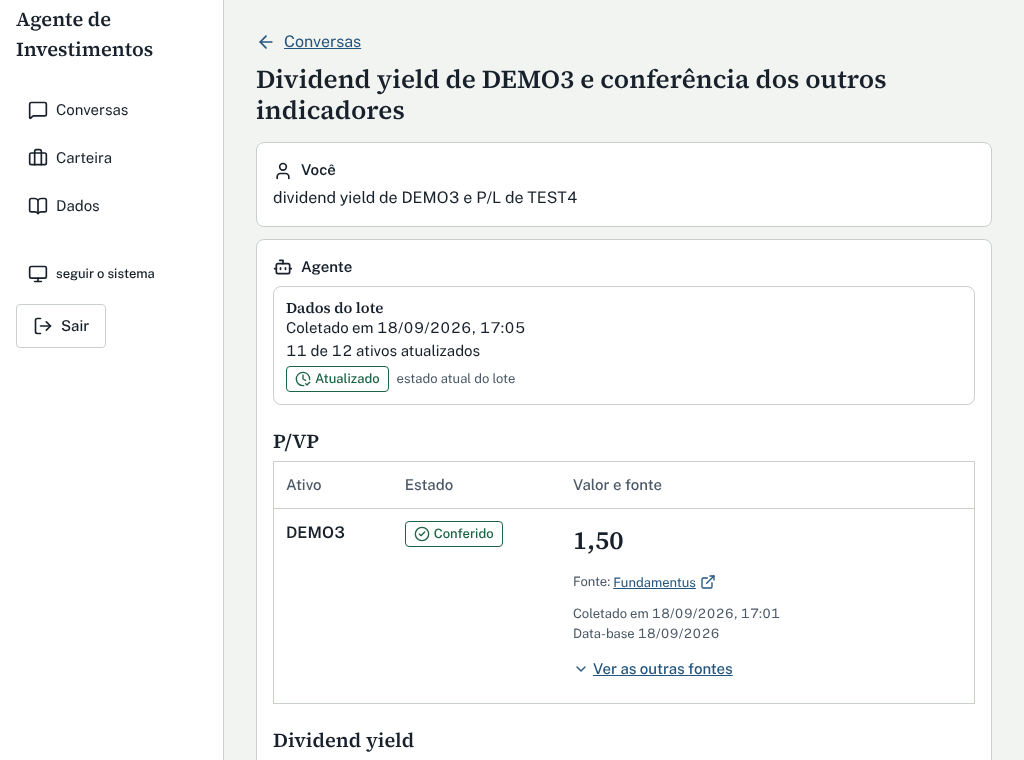
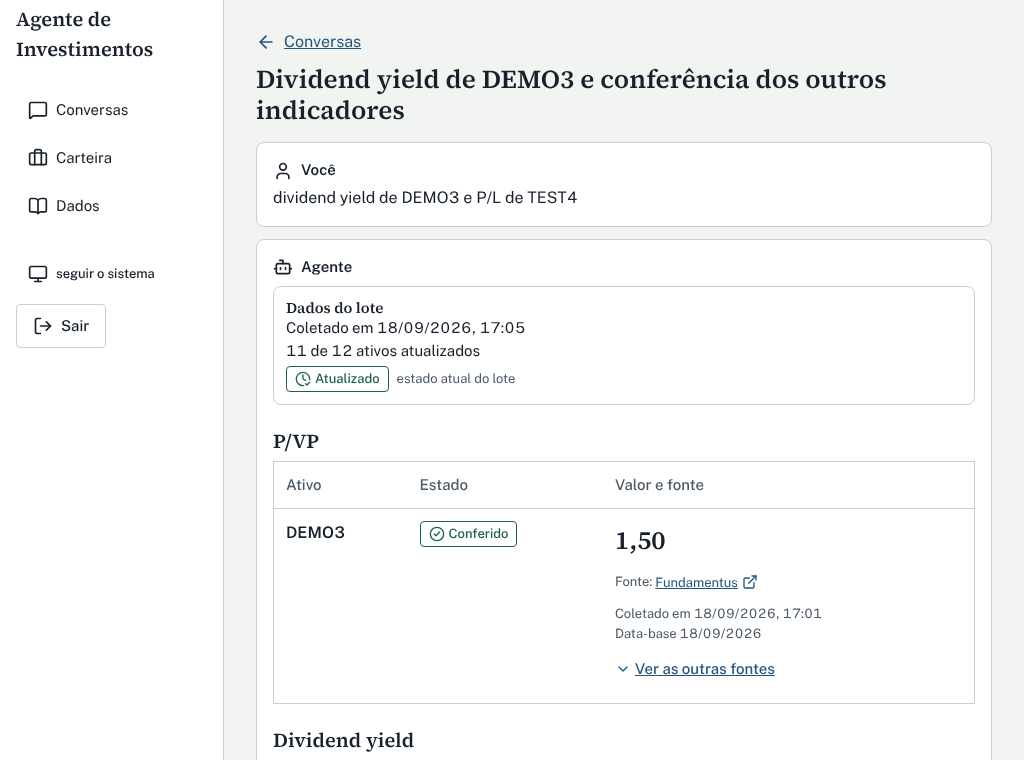
T21c: legibilidade de valores curtos (nowrap), break-word na raiz, teste de navegação direta e medição 320-1100 px
Claude-Session: https://claude.ai/code/session_014ih8dcR4zqo4T5PyAmD7dM

diff --git a/frontend/src/features/chat/components/MetricTable.tsx b/frontend/src/features/chat/components/MetricTable.tsx
@@ -11,7 +11,7 @@ import {
   type EvidenceValidation,
 } from '../contracts'
 import { formatDateTime, formatReference } from '../dates'
-import { safeSourceUrl, sourceName } from '../safeLink'
+import { isKnownSource, safeSourceUrl, sourceName } from '../safeLink'
 import { warningText } from '../texts'
 import { deltaUnit, unitFor } from '../units'
 import { Value } from './Value'
@@ -80,8 +80,19 @@ function IncompleteCell() {
   )
 }
 
+// Ticker no formato do contrato não quebra ("DEMO3" nunca vira "DEMO / 3"); texto fora do
+// formato (dado estranho) pode quebrar em qualquer ponto.
+function Ticker({ id }: { id: string }) {
+  return <span className={/^[A-Z0-9]{1,12}$/.test(id) ? 'whitespace-nowrap' : '[overflow-wrap:anywhere]'}>{id}</span>
+}
+
+// Nome de fonte conhecido não quebra; um código estranho (texto do servidor) pode quebrar em qualquer ponto.
+function SourceName({ id }: { id: string }) {
+  return <span className={isKnownSource(id) ? 'whitespace-nowrap' : '[overflow-wrap:anywhere]'}>{sourceName(id)}</span>
+}
+
 function SourceLink({ observation }: { observation: EvidenceObservation }) {
-  const name = sourceName(observation.source_id)
+  const name = <SourceName id={observation.source_id} />
   const href = safeSourceUrl(observation.source_url)
   if (!href) {
     return (
@@ -110,8 +121,14 @@ function ObservationMeta({ observation }: { observation: EvidenceObservation }) 
       <div>
         Fonte: <SourceLink observation={observation} />
       </div>
-      <div>Coletado em {formatDateTime(observation.collected_at)}</div>
-      {observation.reference_at ? <div>Data-base {formatReference(observation.reference_at)}</div> : null}
+      <div>
+        Coletado em <span className="whitespace-nowrap">{formatDateTime(observation.collected_at)}</span>
+      </div>
+      {observation.reference_at ? (
+        <div>
+          Data-base <span className="whitespace-nowrap">{formatReference(observation.reference_at)}</span>
+        </div>
+      ) : null}
     </div>
   )
 }
@@ -120,7 +137,7 @@ function ObservationMeta({ observation }: { observation: EvidenceObservation }) 
 function ObservationBox({ observation, metric }: { observation: EvidenceObservation; metric: string }) {
   return (
     <li className="min-w-0 rounded-selo border border-borda p-3">
-      <p className="text-nota font-medium">{sourceName(observation.source_id)}</p>
+      <p className="text-nota font-medium"><SourceName id={observation.source_id} /></p>
       <p className="font-serif text-subtitulo font-semibold">
         <Value value={observation.value_decimal} unit={unitFor(observation.unit, metric)} />
       </p>
@@ -134,7 +151,7 @@ function ComparisonFigures({ validation, observations }: { validation: EvidenceV
   if (!c) return null
   const unit = deltaUnit(unitFor(observations[0]?.unit ?? '', validation.metric))
   return (
-    <dl className="mt-2 grid grid-cols-[auto_minmax(0,1fr)] gap-x-3 text-rotulo">
+    <dl className="mt-2 grid grid-cols-1 gap-x-3 min-[480px]:grid-cols-[auto_minmax(0,1fr)] text-rotulo">
       <dt className="text-tinta-suave">Diferença entre as fontes</dt>
       <dd className="min-w-0">
         <Value value={c.delta_abs} unit={unit} />
@@ -149,7 +166,7 @@ function ComparisonFigures({ validation, observations }: { validation: EvidenceV
 
 function Reason({ text }: { text: string | null }) {
   return (
-    <p className="text-rotulo">
+    <p className="text-rotulo [overflow-wrap:anywhere]">
       <span className="text-tinta-suave">Motivo: </span>
       {text && text.length > 0 ? text : 'não informado'}
     </p>
@@ -214,7 +231,8 @@ function CellBody({ validation, observations }: { validation: EvidenceValidation
         </div>
       )
     case 'single_source': {
-      const o = observations.find((x) => x.observation_id === validation.selected_observation_id) ?? observations[0]
+      // O resolvedor garante exatamente uma observação (e que a selecionada, se houver, é ela).
+      const o = observations[0]
       return (
         <div>
           <p className="font-serif text-tela font-semibold">
@@ -295,19 +313,19 @@ function MetricSection({
 }) {
   const headingId = useId()
   const rows = validationIds.map((id) => ({ id, resolved: resolve(id, metric) }))
-  const label = (r: Resolved, id: string) => (r.ok ? r.validation.asset_id : `Campo ${id.slice(0, 8)}`)
+  const label = (r: Resolved, id: string) => (r.ok ? <Ticker id={r.validation.asset_id} /> : `Campo ${id.slice(0, 8)}`)
   return (
     <section aria-labelledby={headingId} className="mt-6">
       <h3 id={headingId} className="text-subtitulo">
         {heading}
       </h3>
       {wide ? (
-        <table className="mt-2 w-full table-fixed border-collapse rounded-painel border border-borda bg-superficie text-left">
+        <table className="mt-2 w-full border-collapse rounded-painel border border-borda bg-superficie text-left">
           <caption className="sr-only">{heading}: valor, estado e fonte por ativo</caption>
           <thead>
             <tr className="border-b border-borda text-rotulo text-tinta-suave">
-              <th scope="col" className="w-[17%] p-3 font-medium">Ativo</th>
-              <th scope="col" className="w-[24%] p-3 font-medium">Estado</th>
+              <th scope="col" className="p-3 font-medium">Ativo</th>
+              <th scope="col" className="p-3 font-medium">Estado</th>
               <th scope="col" className="p-3 font-medium">Valor e fonte</th>
             </tr>
           </thead>
@@ -357,12 +375,12 @@ export function MetricTable({ payload, catalog }: { payload: AnswerPayload; cata
   const headerId = useId()
 
   return (
-    <div className="mt-2 min-w-0 [overflow-wrap:anywhere]">
+    <div className="mt-2 min-w-0 [overflow-wrap:break-word]">
       <header aria-labelledby={headerId} className="min-w-0 rounded-painel border border-borda bg-superficie p-3">
         <h2 id={headerId} className="text-rotulo font-semibold">Dados do lote</h2>
         <p className="text-rotulo">
           Coletado em{' '}
-          {collected === 'data inválida' ? collected : <time dateTime={payload.snapshot_collected_at}>{collected}</time>}
+          {collected === 'data inválida' ? collected : <time dateTime={payload.snapshot_collected_at} className="whitespace-nowrap">{collected}</time>}
         </p>
         <p className="text-rotulo">
           {assets_updated} de {assets_total} ativos atualizados
@@ -405,7 +423,13 @@ export function MetricTable({ payload, catalog }: { payload: AnswerPayload; cata
                     <li key={id} className="min-w-0 rounded-painel border border-borda bg-superficie p-3" data-testid={resolved.ok ? `cell-${resolved.validation.asset_id}-${resolved.validation.metric}` : `cell-${id}`}>
                       <div className="mb-2 flex flex-wrap items-center justify-between gap-2">
                         <h4 className="font-semibold">
-                          {resolved.ok ? `${resolved.validation.asset_id}, ${metricLabel(resolved.validation.metric)}` : 'Campo sem evidência'}
+                          {resolved.ok ? (
+                            <>
+                              <Ticker id={resolved.validation.asset_id} />, {metricLabel(resolved.validation.metric)}
+                            </>
+                          ) : (
+                            'Campo sem evidência'
+                          )}
                         </h4>
                         {resolved.ok ? <Badges validation={resolved.validation} /> : null}
                       </div>

diff --git a/frontend/src/features/chat/components/MetricTable.test.tsx b/frontend/src/features/chat/components/MetricTable.test.tsx
@@ -128,7 +128,7 @@ test('incomparable: os valores e o motivo do servidor', () => {
   expect(within(c).getByText('12,0')).toBeTruthy()
   expect(within(c).getByText('9,8')).toBeTruthy()
   expect(within(c).getByText('Datas-base diferentes entre as fontes')).toBeTruthy()
-  expect(within(c).getByText(/Data-base 30\/06\/2026/)).toBeTruthy()
+  expect(c.textContent).toContain('Data-base 30/06/2026')
 })
 
 test('missing mostra "Não disponível", nunca zero', () => {
@@ -257,7 +257,7 @@ test('a 768 px ou mais é uma tabela com cabeçalhos de coluna e de linha', () =
   expect(within(tables[1]).getByRole('rowheader', { name: 'DEMO3' })).toBeTruthy()
 })
 
-test('reflow: valor longo quebra em qualquer ponto e as caixas podem encolher (WCAG 1.4.10)', () => {
+test('reflow: valor longo quebra em qualquer ponto; as caixas podem encolher (WCAG 1.4.10)', () => {
   const long = '9'.repeat(45)
   const raw = seedPayload()
   const ev = raw.evidence as { observations: { observation_id: string; value_decimal: string }[]; validations: { comparison: { delta_abs: string; limit: string } | null }[] }
@@ -266,16 +266,48 @@ test('reflow: valor longo quebra em qualquer ponto e as caixas podem encolher (W
   ev.validations[1].comparison!.delta_abs = long
   render(<MetricTable payload={payloadOf(raw)} />)
   const root = screen.getByRole('banner').parentElement!
-  expect(root.className).toContain('[overflow-wrap:anywhere]')
-  expect(root.className).toContain('min-w-0')
   const longValues = [...root.querySelectorAll('span')].filter((s) => /9\.999\.999\.999/.test(s.textContent ?? '') && s.children.length === 0)
   expect(longValues.length).toBeGreaterThanOrEqual(3)
-  for (const el of longValues) expect(el.className, el.textContent ?? '').toContain('[overflow-wrap:anywhere]')
+  for (const el of longValues) {
+    expect(el.className, el.textContent ?? '').toContain('[overflow-wrap:anywhere]')
+    expect(el.className).not.toContain('whitespace-nowrap')
+  }
   // Itens de lista/grade com valor precisam poder encolher.
   const items = within(cell('DEMO3', 'dividend_yield')).getAllByRole('listitem')
   expect(items.length).toBe(2)
   for (const li of items) expect(li.className).toContain('min-w-0')
   for (const ul of cell('DEMO3', 'dividend_yield').querySelectorAll('ul')) expect(ul.className).toMatch(/minmax\(0,1fr\)/)
+})
+
+test('legibilidade: valores curtos, tickers, selos e fontes não quebram; anywhere só em texto que pode ser longo', () => {
+  render(<MetricTable payload={payloadOf(sevenStates())} />)
+  const root = screen.getByRole('banner').parentElement!
+  // A raiz não herda "anywhere" (isso encolheria a largura mínima de toda palavra).
+  expect(root.className).toContain('[overflow-wrap:break-word]')
+  expect(root.className).not.toContain('anywhere')
+  fireEvent.click(within(cell('DEMO3', 'price_to_book')).getByRole('button', { name: 'Ver as outras fontes' }))
+  const nowrap = (el: Element | null, what: string) => expect(el?.className, what).toContain('whitespace-nowrap')
+  for (const text of ['8,50%', '9,10%', '0,60 p.p.', '0,20 p.p.', '1,50', '0,0302', '12,0', '9,8']) {
+    const found = screen.getAllByText(text).filter((e) => e.tagName === 'SPAN')
+    expect(found.length, text).toBeGreaterThan(0)
+    for (const el of found) nowrap(el, text)
+  }
+  for (const el of screen.getAllByText('DEMO3')) nowrap(el, 'ticker')
+  for (const el of screen.getAllByText('18/09/2026')) nowrap(el, 'data-base')
+  for (const el of screen.getAllByText(/^18\/09\/2026, 17:0[12]$/)) nowrap(el, 'data da coleta')
+  for (const el of screen.getAllByText('Fundamentus')) nowrap(el.closest('span.whitespace-nowrap') ?? el, 'fonte')
+  for (const el of screen.getAllByText('StatusInvest')) nowrap(el, 'fonte')
+  for (const badge of screen.getAllByRole('img')) nowrap(badge, badge.getAttribute('aria-label') ?? '')
+  // Só os motivos (texto livre do servidor) podem quebrar em qualquer ponto.
+  const anywhere = [...root.querySelectorAll('[class*="overflow-wrap:anywhere"]')]
+  expect(anywhere.length).toBeGreaterThan(0)
+  for (const el of anywhere) expect(el.textContent).toMatch(/^Motivo: /)
+  // O rótulo e o valor de diferença/limite empilham em tela estreita.
+  const dl = cell('DEMO3', 'price_to_book').querySelector('dl')!
+  expect(dl.className).toContain('grid-cols-1')
+  expect(dl.className).toContain('min-[480px]:grid-cols-')
+  // Sem larguras fixas pequenas nas colunas da tabela.
+  expect(root.innerHTML).not.toMatch(/table-fixed|w-\[17%\]|w-\[24%\]/)
 })
 
 test('single_source usa a observação selecionada; observação extra torna o campo incompleto', () => {

diff --git a/frontend/src/features/chat/components/ChatPage.test.tsx b/frontend/src/features/chat/components/ChatPage.test.tsx
@@ -1,8 +1,14 @@
-import { act, fireEvent, screen, waitFor, within } from '@testing-library/react'
+import { QueryClient, QueryClientProvider } from '@tanstack/react-query'
+import { act, fireEvent, render, renderHook, screen, waitFor, within } from '@testing-library/react'
+import { MemoryRouter, useNavigate } from 'react-router-dom'
 import { afterEach, beforeEach, expect, test, vi } from 'vitest'
 import { fake } from '@/test/fakeSupabase'
+import { ThemeProvider } from '@/components/layout/ThemeProvider'
+import { SessionProvider } from '@/features/auth/hooks/SessionProvider'
+import { AppRoutes } from '@/routes/AppRoutes'
 import { renderApp } from '@/test/renderApp'
 import { chatConfig } from '../api'
+import { useAgentSend } from '../hooks'
 import { catalogBody, seedPayload } from '../fixtures'
 
 vi.mock('@/lib/supabase', async () => ({ supabase: (await import('@/test/fakeSupabase')).fake.client }))
@@ -635,16 +641,34 @@ test('cancelar o seletor depois de needs_selection e reenviar o mesmo texto usa 
   expect(agentCalls[1].body?.request_id).not.toBe(agentCalls[0].body?.request_id)
 })
 
-test('o mesmo texto em outra conversa não reutiliza o request_id', async () => {
+function Jump({ to }: { to: string }) {
+  const navigate = useNavigate()
+  return <button onClick={() => navigate(to)}>ir direto</button>
+}
+
+// Navega de /conversas/A para /conversas/B SEM passar pela lista (a mesma rota, outro :id).
+test('o mesmo texto em outra conversa (navegação direta A para B) não reutiliza o request_id nem herda a tela', async () => {
   const other = fake.addConversation('Outra conversa').id as string
-  await open()
+  const queryClient = new QueryClient({ defaultOptions: { queries: { retry: false } } })
+  render(
+    <QueryClientProvider client={queryClient}>
+      <ThemeProvider>
+        <SessionProvider>
+          <MemoryRouter initialEntries={[`/conversas/${conversationId}`]}>
+            <AppRoutes />
+            <Jump to={`/conversas/${other}`} />
+          </MemoryRouter>
+        </SessionProvider>
+      </ThemeProvider>
+    </QueryClientProvider>,
+  )
+  await screen.findByLabelText('Sua pergunta')
   agentHandler = (_c, n) => (n === 1 ? json(500, { error: { code: 'INTERNAL_ERROR' } }) : completed())
   type('mesma pergunta')
   clickSend()
   await screen.findByText('Erro no servidor')
-  fireEvent.click(screen.getAllByRole('link', { name: 'Conversas' })[0])
-  fireEvent.click(await screen.findByRole('link', { name: 'Outra conversa' }))
-  await screen.findByLabelText('Sua pergunta')
+  fireEvent.click(screen.getByRole('button', { name: 'ir direto' }))
+  await waitFor(() => expect(screen.getByRole('heading', { level: 1 }).textContent).toBe('Outra conversa'))
   // A tela remontou: nada de rascunho nem erro da conversa anterior.
   expect((screen.getByLabelText('Sua pergunta') as HTMLTextAreaElement).value).toBe('')
   expect(screen.queryByText('Erro no servidor')).toBeNull()
@@ -653,4 +677,20 @@ test('o mesmo texto em outra conversa não reutiliza o request_id', async () => 
   await screen.findByText('Resposta recebida.')
   expect(agentCalls[1].body?.conversation_id).toBe(other)
   expect(agentCalls[1].body?.request_id).not.toBe(agentCalls[0].body?.request_id)
+})
+
+// A chave do request_id também inclui a conversa por si só (sem depender do remontar da tela).
+test('useAgentSend: o mesmo pedido em outra conversa recebe request_id novo, na mesma instância do hook', async () => {
+  const queryClient = new QueryClient({ defaultOptions: { queries: { retry: false } } })
+  const wrapper = ({ children }: { children: React.ReactNode }) => <QueryClientProvider client={queryClient}>{children}</QueryClientProvider>
+  const { result, rerender } = renderHook(({ cid }) => useAgentSend('u1', cid, () => {}), { wrapper, initialProps: { cid: 'conv-A' } })
+  agentHandler = () => json(500, { error: { code: 'INTERNAL_ERROR' } })
+  const request = { message: 'mesma pergunta', selection: null }
+  await act(async () => void (await result.current.send(request)))
+  await act(async () => void (await result.current.send(request))) // mesma conversa: reutiliza
+  expect(agentCalls[1].body?.request_id).toBe(agentCalls[0].body?.request_id)
+  rerender({ cid: 'conv-B' })
+  await act(async () => void (await result.current.send(request)))
+  expect(agentCalls[2].body?.conversation_id).toBe('conv-B')
+  expect(agentCalls[2].body?.request_id).not.toBe(agentCalls[0].body?.request_id)
 })

diff --git a/frontend/src/features/chat/components/Value.tsx b/frontend/src/features/chat/components/Value.tsx
@@ -2,17 +2,23 @@ import { XCircle } from 'lucide-react'
 import { cn } from '@/lib/utils'
 import { INVALID_VALUE_TEXT, formatDecimalString, isDecimalString, type ValueUnit } from '../format'
 
+// Até este tamanho (em caracteres, já formatado) o valor é "curto": cabe em 320 px sem quebrar.
+export const SHORT_VALUE_MAX = 18
+
 // Único ponto da tela que mostra um valor decimal. Valor ilegível mostra ícone e
 // "valor inválido", nunca zero nem NaN.
 export function Value({ value, unit, className }: { value: string; unit: ValueUnit; className?: string }) {
   if (!isDecimalString(value)) {
     return (
-      <span className="inline-flex items-center gap-1 text-carmim [overflow-wrap:anywhere]">
+      <span className="inline-flex items-center gap-1 text-carmim whitespace-nowrap">
         <XCircle aria-hidden="true" className="size-4 shrink-0" />
         {INVALID_VALUE_TEXT}
       </span>
     )
   }
-  // Valor longo quebra em qualquer ponto: sem rolagem horizontal (WCAG 1.4.10).
-  return <span className={cn('[overflow-wrap:anywhere]', className)}>{formatDecimalString(value, { unit })}</span>
+  const text = formatDecimalString(value, { unit })
+  // Valor curto nunca quebra (ler "R$ 0," e "01" em linhas separadas engana). Valor longo
+  // quebra em qualquer ponto, para não gerar rolagem horizontal (WCAG 1.4.10).
+  const long = text.length > SHORT_VALUE_MAX
+  return <span className={cn(long ? '[overflow-wrap:anywhere]' : 'whitespace-nowrap', className)}>{text}</span>
 }

diff --git a/frontend/src/components/status/StatusBadge.tsx b/frontend/src/components/status/StatusBadge.tsx
@@ -8,7 +8,7 @@ function Badge({ visual, prefix }: { visual: Visual; prefix: string }) {
     <span
       role="img"
       aria-label={`${prefix}: ${label}`}
-      className={cn('inline-flex items-center gap-1 rounded-selo px-2 py-0.5 text-nota font-medium', className)}
+      className={cn('inline-flex items-center gap-1 whitespace-nowrap rounded-selo px-2 py-0.5 text-nota font-medium', className)}
     >
       <Icon aria-hidden="true" className="size-4" />
       <span aria-hidden="true">{label}</span>

diff --git a/frontend/src/features/chat/safeLink.ts b/frontend/src/features/chat/safeLink.ts
@@ -24,6 +24,8 @@ const SOURCE_NAME: Record<string, string> = {
   brapi: 'brapi',
 }
 
+export const isKnownSource = (sourceId: string) => sourceId in SOURCE_NAME
+
 // Nome para exibir. Código desconhecido aparece como veio (será renderizado como texto).
 export function sourceName(sourceId: string): string {
   return SOURCE_NAME[sourceId] ?? sourceId

diff --git a/docs/tarefas/T21c.md b/docs/tarefas/T21c.md
@@ -32,13 +32,15 @@ A resposta (`messages.payload`, versão 1) é mostrada pelo `MetricTable`, sem c
 - `frontend/src/features/chat/`: `format.ts` (formatação única), `contracts.ts` (tipos e leitores defensivos de payload e catálogo), `api.ts` (banco, `/agent`, `/catalog`), `hooks.ts` (consultas, envio, `request_id`), `texts.ts`, `safeLink.ts`, `dates.ts`, `units.ts`, `fixtures.ts` (dados sintéticos DEMO3/TEST4/ONEA3, só para testes e capturas).
 - `components/`: `ChatPage.tsx`, `MetricTable.tsx`, `Value.tsx`, `SelectionDialog.tsx`.
 - `frontend/src/lib/config.ts`, `routes/AppRoutes.tsx`, `components/status/*`, `test/fakeSupabase.ts` (ver acima), `docs/design.md`.
-- Testes: `format.test.ts` (11), `safeLink.test.ts` (14), `MetricTable.test.tsx` (26), `ChatPage.test.tsx` (48).
+- Testes: `format.test.ts` (11), `safeLink.test.ts` (14), `MetricTable.test.tsx` (27), `ChatPage.test.tsx` (49).
 - Capturas em `docs/capturas/t21c-*.png` (5 arquivos, 280 KB no total).
 
 ## Como conferir
-Em `frontend/`: `npm ci`, `npm run lint`, `npm run typecheck`, `npm test` (12 arquivos, 152 testes) e `npm run build`. Na raiz: `bash scripts/ci/check_bundle.sh frontend/dist` e `bash scripts/ci/check_guardrails.sh`.
+Em `frontend/`: `npm ci`, `npm run lint`, `npm run typecheck`, `npm test` (12 arquivos, 154 testes) e `npm run build`. Na raiz: `bash scripts/ci/check_bundle.sh frontend/dist` e `bash scripts/ci/check_guardrails.sh`.
 
-Verificação visual e de reflow (Chromium/Playwright, `vite preview` do build, sessão fictícia no `localStorage`, rede do Supabase e das funções interceptada com payload sintético baseado no seed). Medição de reflow: 2 temas x larguras 320, 360, 768 e 1024 px x valores de 20, 30, 45 e 100 dígitos (valores de observação, diferença e limite de `verified` e `divergent`, valor negativo no `incomparable`, motivo longo sem espaços, `source_url` de 250 caracteres, título de conversa e mensagem do usuário com texto e URL longos, disclosure do `verified` aberto). Resultado nas 32 combinações: `scrollWidth == clientWidth` e nenhum elemento de `main` com a borda direita além da janela. Para provar que a medição enxerga o problema, a mesma medição com `overflow-wrap: normal !important` injetado falha (`scrollWidth` 2536 contra 360 px). Antes do conserto o revisor mediu 37 px (20 dígitos), 164 px (30) e 556 px (45) a 360 px. Também em 360 e 1024 px: nenhum botão, link ou campo com menos de 44 px de altura (caixas de seleção medidas pelo rótulo, de 44 px), 0 tabelas a 360 px e 2 a 1024 px.
+Verificação visual e de reflow (Chromium/Playwright, `vite preview` do build, sessão fictícia, rede do Supabase e das funções interceptada com payload sintético; script de medição guardado fora do repositório). Medição: larguras de 320 a 1100 px de 20 em 20, mais 768, 800, 860 e 920 (41 larguras), 2 temas, 6 casos (payload do seed, mais cotação em BRL, e valores de 20, 30, 45, 100 e 500 dígitos em observações, diferença e limite, com negativos, motivo e `source_url` sem espaços, título de conversa e mensagem do usuário longos), disclosures abertos: 492 medições. Dois testes por medição: (a) `scrollWidth == clientWidth` e nenhum elemento de `main` além da borda direita; (b) no caso do seed, nenhuma palavra de até 18 caracteres (sem hífen) ocupa mais de uma linha, medido com `Range.getClientRects()` (DEMO3, Conferido, Divergente, Fundamentus, StatusInvest, 8,50%, 9,10%, 1,50, R$ 38,50, 0,01, 0,0302, datas etc.). Resultado final: 492 medições, 0 falhas.
+
+Antes dos consertos desta rodada (build do commit `251b007`, mesma medição): 16 falhas, todas no caso do seed, nenhuma de rolagem horizontal. A 768 px quebravam DEMO3, Conferido, Divergente, Fundamentus, StatusInvest, 0,01 e 0,0302 (ainda Conferido e Divergente a 820, Divergente até 860); a 320 e 340 px quebravam 0,01 e 0,0302. Depois do primeiro conserto da rodada sobraram 4 falhas (as datas "18/09/2026" quebravam na barra a 768 e 780 px); depois de pôr as datas em `whitespace-nowrap`, 0. Na primeira rodada da revisão os valores de 20, 30 e 45 dígitos geravam 37, 164 e 556 px de rolagem a 360 px; agora 0.
 
 Capturas (1x, só a área visível): `t21c-divergencia-360-claro`, `t21c-divergencia-360-escuro`, `t21c-valor-longo-30-360-claro` (valor de 30 dígitos quebrado dentro do cartão, borda direita inteira), `t21c-seletor-360-claro` (aberto por `needs_selection`), `t21c-tabela-1024-claro`.
 
@@ -49,13 +51,25 @@ Capturas (1x, só a área visível): `t21c-divergencia-360-claro`, `t21c-diverge
 - **`single_source`.** Usa a observação de `selected_observation_id` quando existe; mais de uma observação, ou seleção fora das observações da validação, vira "Dado incompleto". Três testes novos.
 - **Capturas** refeitas em 1x e só na área visível: de 2,6 MB para 280 KB.
 
+## Correções da segunda revisão
+- **O `overflow-wrap: anywhere` herdado da raiz quebrava palavras curtas.** `anywhere` reduz a largura mínima de todo texto, então tabela e cartões espremiam "DEMO3", "Conferido", "0,0302". Agora a raiz usa `overflow-wrap: break-word` (não reduz a largura mínima). Regras atuais:
+  - `Value`: valor formatado de até 18 caracteres é `whitespace-nowrap`; acima disso usa `[overflow-wrap:anywhere]` (valor longo quebra em qualquer ponto, sem hífen);
+  - `whitespace-nowrap` também em tickers no formato do contrato, selos (`StatusBadge`/`FreshnessBadge`, em `components/status/StatusBadge.tsx`, arquivo da T21a), nomes de fonte conhecidos e datas;
+  - ticker fora do formato e código de fonte desconhecido (texto estranho do servidor) usam `anywhere`, como o motivo da validação;
+  - tabela sem `table-fixed` e sem larguras fixas nas colunas Ativo e Estado;
+  - o par rótulo/valor de diferença e limite empilha abaixo de 480 px (`grid-cols-1`, `min-[480px]:grid-cols-[auto_minmax(0,1fr)]`).
+- **Teste "legibilidade"** (`MetricTable.test.tsx`): confere `break-word` na raiz (sem `anywhere`), `nowrap` em valores curtos, tickers, selos, fontes e datas, `anywhere` só nos motivos, o `dl` empilhável e a ausência de `table-fixed`. Confirmei por mutação que falha ao voltar `anywhere` para a raiz, ao tirar o `nowrap` do `Value` e ao tirar o `nowrap` da fonte.
+- **Teste de navegação direta.** O teste da rodada anterior passava pela lista, que desmonta a tela. O novo navega de `/conversas/A` para `/conversas/B` pela mesma rota. Mutações: sem `key={id}` falha; sem `conversationId` na chave do `request_id` e sem os dois: o de navegação sozinho só falha quando falta o `key` (o `key` remonta a tela e zera o `request_id`), por isso há um segundo teste, em `useAgentSend` com a mesma instância e a conversa trocada por `rerender`, que falha sem `conversationId`; sem os dois falham ambos.
+- `single_source`: o `.find(selected)` redundante saiu; o resolvedor já garante exatamente uma observação (e que a selecionada, se houver, é ela).
+
 ## Limitações e pontos de atenção
 - Nada foi testado contra o backend real nem contra o Supabase local: o `/agent` e o `/catalog` são simulados por `fetch` falso (formato conforme `docs/api.md`). Falta uma passagem com `supabase functions serve` e `MOCK_LLM=true` (a T21f cobre ponta a ponta).
 - `needs_selection` é testado com os nove códigos; o texto de cada um é fixo no front. Código novo no backend cai no texto genérico até alguém acrescentá-lo em `texts.ts`.
 - A lista de domínios de link está fixa no front. O `source_url` de uma fonte fora dela aparece sem link.
 - O `content` de mensagens de usuário é exibido como texto; o do assistente só quando não há payload legível.
 - Com `not_applicable` e `invalid` o backend não tem valor a mostrar; o front mostra só o motivo (texto do servidor, como texto).
-- Valores muito longos quebram em qualquer ponto (sem hífen): é o preço de não ter rolagem horizontal.
+- Valores com mais de 18 caracteres formatados quebram em qualquer ponto (sem hífen), para não gerar rolagem horizontal; os curtos nunca quebram. A medição cobre o payload do seed e os valores sintéticos descritos acima, não qualquer conteúdo possível.
+- Tickers, selos e fontes em `nowrap` dependem de serem curtos (ticker até 12 caracteres; os selos têm texto fixo); texto fora disso quebra em qualquer ponto.
 - Rolagem para a resposta nova usa `scrollIntoView`; quem usa leitor de tela é avisado pelo texto "Resposta recebida.", mas o foco não é movido.
 - O diálogo do seletor prende o Tab por código próprio (como o `ConfirmDialog`); não foi testado com leitor de tela real.
 - O bundle segue em um chunk só (617 kB; aviso do Vite).
